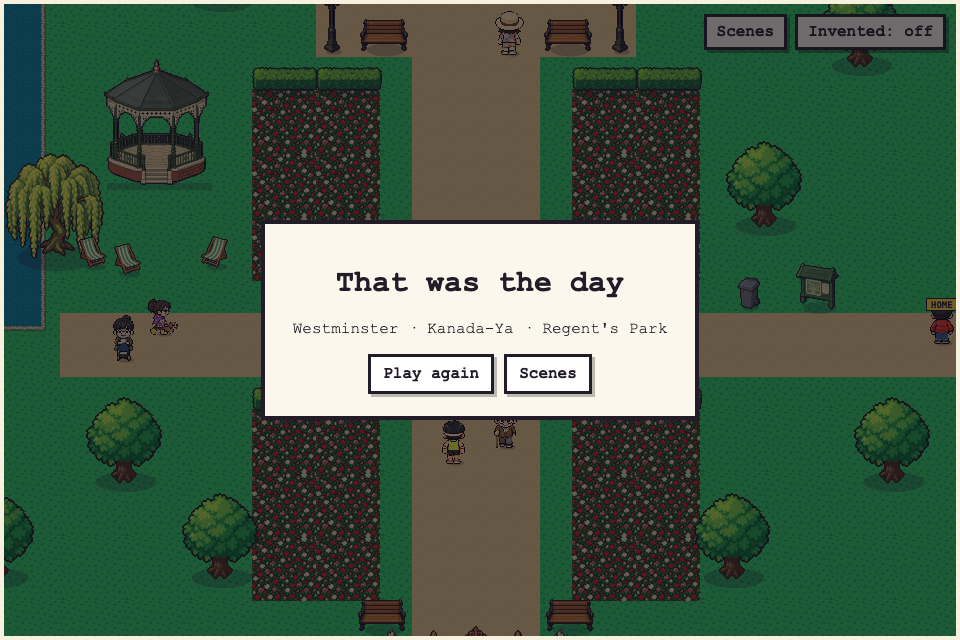
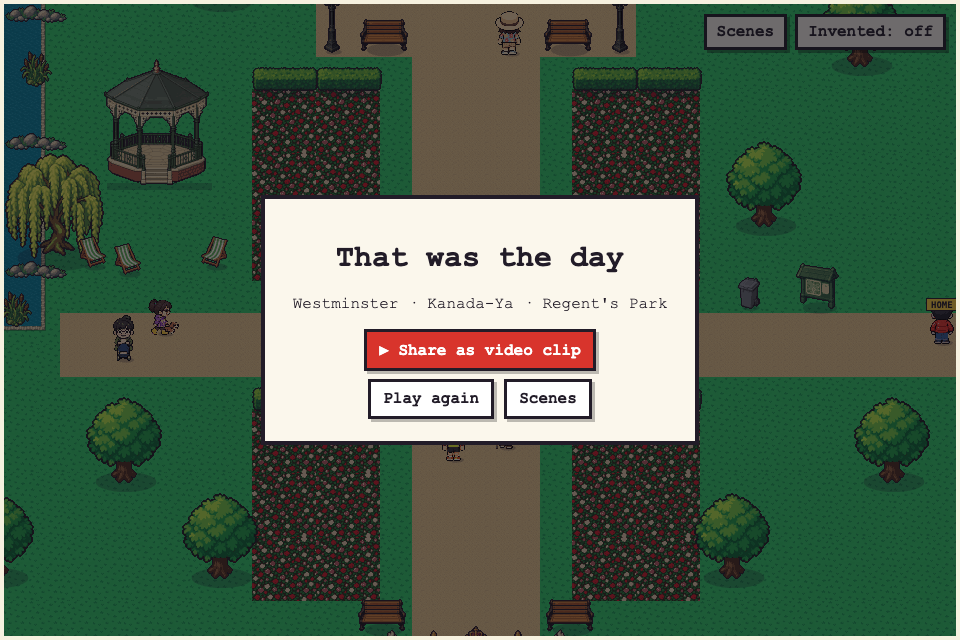
Demo: terrace set back behind the street, lake bank reeds, mock video-clip share
- the terrace backdrop stands two tiles back on its own pavement, hazier, so
  the real buildings read clearly in front of it
- reeds and stones soften the Regent's Park lake edges
- 'Share as video clip' on the end card and the day page: a short render bar,
  then a looping preview with Copy link / Save / Post toasts (calls nothing)

diff --git a/components/day/DemoDayViewer.tsx b/components/day/DemoDayViewer.tsx
@@ -1,9 +1,54 @@
 "use client";
 
 import Link from "next/link";
-import { useRef, useState } from "react";
+import { useEffect, useRef, useState } from "react";
 import { DEMO_DAY, DEMO_SPRITE_URL } from "@/lib/demo";
 import styles from "./day.module.css";
+
+const box = { background: "#fbf7ec", color: "#221c28", border: "4px solid #221c28", boxShadow: "inset 0 0 0 4px #e3d9bd, 6px 6px 0 rgba(0,0,0,.45)", padding: "18px 22px", width: "min(420px, calc(100vw - 32px))", textAlign: "center" as const, font: "700 13px monospace" };
+const btn = { background: "#fff", color: "#221c28", border: "3px solid #221c28", padding: "6px 12px", font: "700 12px monospace", cursor: "pointer", boxShadow: "3px 3px 0 rgba(0,0,0,.25)" };
+
+/** Demo-only "share as video clip": a short render bar, then a looping preview of the day's places. Calls nothing. */
+function ClipShare() {
+  const [state, setState] = useState<"idle" | "rendering" | "ready">("idle");
+  const [progress, setProgress] = useState(0);
+  const [frame, setFrame] = useState(0);
+  const [toast, setToast] = useState("");
+  useEffect(() => {
+    if (state === "rendering") {
+      const t0 = performance.now();
+      const timer = setInterval(() => {
+        const p = Math.min(1, (performance.now() - t0) / 2000);
+        setProgress(p);
+        if (p >= 1) { clearInterval(timer); setState("ready"); }
+      }, 50);
+      return () => clearInterval(timer);
+    }
+    if (state === "ready") {
+      const timer = setInterval(() => setFrame((f) => (f + 1) % DEMO_DAY.scenes.length), 900);
+      return () => clearInterval(timer);
+    }
+  }, [state]);
+  useEffect(() => { if (!toast) return; const t = setTimeout(() => setToast(""), 1400); return () => clearTimeout(t); }, [toast]);
+  const scene = DEMO_DAY.scenes[frame];
+  return <>
+    <button type="button" className={styles.share} onClick={() => { setProgress(0); setFrame(0); setState("rendering"); }}>SHARE AS VIDEO CLIP ▶</button>
+    {state !== "idle" && <div role="dialog" aria-label="Share as video clip" style={{ position: "fixed", inset: 0, zIndex: 20, display: "grid", placeItems: "center", background: "rgba(16,14,22,.7)" }}>
+      <div style={box}>
+        {state === "rendering" ? <><p>RENDERING YOUR DAY…</p><div style={{ height: 12, border: "3px solid #221c28", background: "#fff" }}><span style={{ display: "block", height: "100%", width: `${progress * 100}%`, background: "#d8342c" }} /></div></> : <>
+          <div style={{ aspectRatio: "3 / 2", border: "3px solid #221c28", background: "#a9d4f5", display: "grid", placeItems: "center", position: "relative" }}>
+            <img src={scene.thumb} alt={scene.title} style={{ maxHeight: "80%", maxWidth: "80%", imageRendering: "pixelated" }} />
+            <span style={{ position: "absolute", left: 8, bottom: 6, background: "#221c28", color: "#ffd23f", padding: "2px 6px", fontSize: 11 }}>{scene.time} · {scene.title.toUpperCase()}</span>
+          </div>
+          <p>{DEMO_DAY.name.toLowerCase()}-day.mp4 · 0:30</p>
+          <div style={{ display: "flex", gap: 10, justifyContent: "center" }}>{([["Copy link", "Copied!"], ["Save", "Saved!"], ["Post", "Shared!"]] as const).map(([label, msg]) => <button key={label} type="button" style={btn} onClick={() => setToast(msg)}>{label}</button>)}</div>
+          <button type="button" onClick={() => setState("idle")} style={{ ...btn, border: 0, boxShadow: "none", background: "none", textDecoration: "underline", marginTop: 10 }}>Close</button>
+        </>}
+      </div>
+      {toast && <p role="status" style={{ position: "fixed", bottom: 24, left: "50%", transform: "translateX(-50%)", background: "#221c28", color: "#ffd23f", border: "3px solid #ffd23f", padding: "8px 16px", font: "700 13px monospace" }}>{toast}</p>}
+    </div>}
+  </>;
+}
 
 /** The hardcoded demo day: prebuilt london-25d scenes played in an embedded canvas game. */
 export function DemoDayViewer() {
@@ -24,7 +69,10 @@ export function DemoDayViewer() {
   return <main className={styles.viewer}>
     <header className={styles.header}>
       <Link href="/" className={styles.brand}>DAYQUEST<span>A day worth visiting</span></Link>
-      <button type="button" onClick={share} className={styles.share}>{shareState === "copied" ? "LINK COPIED ✓" : "SHARE THIS DAY ↗"}</button>
+      <div style={{ display: "flex", gap: 10, flexWrap: "wrap" }}>
+        <ClipShare />
+        <button type="button" onClick={share} className={styles.share}>{shareState === "copied" ? "LINK COPIED ✓" : "SHARE THIS DAY ↗"}</button>
+      </div>
     </header>
     <p className={styles.shareStatus} aria-live="polite">{shareState === "copied" ? "Day link copied to clipboard." : ""}</p>
     {shareState === "fallback" && <label className={styles.copyLabel}>Copy this day link<input readOnly value={shareUrl} onFocus={(event) => event.target.select()} aria-label="Day share link" /></label>}

diff --git a/public/london-25d/engine/engine.js b/public/london-25d/engine/engine.js
@@ -167,10 +167,11 @@
       // a hazy row of city rooftops standing on the line y, across the whole map
       // depth: a hazy far skyline (only roofs and spires show) behind a continuous terrace that meets the ground at y
       skyline(y, o = {}) {
-        const far = img.skyline_far || img.skyline, row = img.terrace_strip;
-        const roof = row ? y - row.height + 24 : y;
+        // setback: the terrace stands on its own pavement this far behind the frontage line, so it reads as the next street
+        const far = img.skyline_far || img.skyline, row = img.terrace_strip, by = y - (o.setback ?? 0);
+        const roof = row ? by - row.height + 24 : by;
         w.backdrops.push({ im: far, x: 0, y: roof + 40 - far.height, p: o.parallax ?? 0.3, invented: !!o.invented, repeatX: true });
-        if (row) w.backdrops.push({ im: row, x: 0, y: y - row.height, p: 0, invented: !!o.invented, repeatX: true, ground: true });
+        if (row) w.backdrops.push({ im: row, x: 0, y: by - row.height, p: 0, invented: !!o.invented, repeatX: true, ground: true });
       },
     };
     def.build(api);
@@ -300,6 +301,8 @@
     bannerEl.hidden = false;
     bannerTimer = 90;
     exitCooldown = 30;
+    // remember what this scene looks like for the clip preview (once the banner has gone)
+    if (def.order != null) setTimeout(() => { if (world && world.def === def && mode === "play") snapshots[def.order - 1] = canvas.toDataURL(); }, 1700);
     const url = new URL(location.href);
     url.searchParams.set("scene", def.id);
     history.replaceState(null, "", url);
@@ -372,6 +375,32 @@
   invBtn.addEventListener("click", (ev) => { ev.stopPropagation(); toggleInvented(); invBtn.blur(); });
   document.getElementById("btn-menu").addEventListener("click", (ev) => { ev.stopPropagation(); showPicker(); ev.target.blur(); });
   document.getElementById("end-again").addEventListener("click", () => enter(chain()[0]));
+
+  // ---------- mock "share as video clip": a short render bar, then a looping preview of the day ----------
+  const snapshots = []; // one canvas snapshot per scene, taken shortly after entering it
+  const clipEl = document.getElementById("clip"), toastEl = document.getElementById("toast");
+  let clipTimer = 0;
+  function toast(text) { toastEl.textContent = text; toastEl.hidden = false; clearTimeout(toast.t); toast.t = setTimeout(() => (toastEl.hidden = true), 1400); }
+  document.getElementById("end-clip").addEventListener("click", () => {
+    const render = document.getElementById("clip-render"), ready = document.getElementById("clip-ready"), bar = document.getElementById("clip-bar");
+    clipEl.hidden = false; render.hidden = false; ready.hidden = true; bar.style.width = "0";
+    const t0 = performance.now();
+    const tick = () => {
+      const p = Math.min(1, (performance.now() - t0) / 2000);
+      bar.style.width = `${p * 100}%`;
+      if (p < 1) return requestAnimationFrame(tick);
+      render.hidden = true; ready.hidden = false;
+      const shots = snapshots.filter(Boolean), frames = shots.length ? shots : [canvas.toDataURL()];
+      let i = 0;
+      const img = document.getElementById("clip-frame");
+      img.src = frames[0];
+      clearInterval(clipTimer);
+      clipTimer = setInterval(() => { i = (i + 1) % frames.length; img.src = frames[i]; }, 900);
+    };
+    requestAnimationFrame(tick);
+  });
+  for (const b of clipEl.querySelectorAll("[data-toast]")) b.addEventListener("click", () => toast(b.dataset.toast));
+  document.getElementById("clip-close").addEventListener("click", () => { clipEl.hidden = true; clearInterval(clipTimer); });
   document.getElementById("end-menu").addEventListener("click", showPicker);
 
   // ---------- transit between scenes ----------

diff --git a/public/london-25d/scenes/regents-park/scene.js b/public/london-25d/scenes/regents-park/scene.js
@@ -43,10 +43,10 @@
     sky: "#2a9d5c",
     spawn: { x: (WALK_C0 + 2) * T, y: FENCE_R * T - 80, dir: "up" }, // just inside the gates
     own: ["jubilee_gates", "triton", "bandstand", "swan", "rowing_boat", "willow", "deckchair", "noticeboard",
-      "tile_lake_edge", "tile_lake_edge_v", "tile_lake_corner", "tile_water", "tile_gravel", "tile_roses"],
+      "tile_lake_edge", "tile_lake_edge_v", "tile_lake_corner", "tile_water", "tile_gravel", "tile_roses", "reeds", "bank_stones"],
     assets: ["tile_grass", "tile_paving", "tile_gravel", "tile_roses", "tile_water", "tile_lake_edge", "tile_lake_edge_v", "tile_lake_corner",
       "jubilee_gates", "triton", "bandstand", "swan", "rowing_boat", "willow", "deckchair", "noticeboard",
-      "tree", "hedge", "bench", "lamp", "bin_grey", "npc_tourist", "npc_commuter", "npc_jogger", "npc_parent", "npc_elder", "npc_dogwalker", "npc_student", "npc_busker"],
+      "tree", "hedge", "bench", "lamp", "bin_grey", "npc_tourist", "npc_commuter", "npc_jogger", "npc_parent", "npc_elder", "npc_dogwalker", "npc_student", "npc_busker", "reeds", "bank_stones"],
 
     ground(c, r) {
       if (c < LAKE_C && r < LAKE_R) return { tile: "tile_water", solid: true };
@@ -157,6 +157,16 @@
       w.talk(nb.x + nb.w / 2, nb.y, TEXT.stats);
       w.add("bin_grey", 33 * T + 6, PATH_R0 * T - 4, { invented: true });
       w.exit(W - 28, PATH_R0 * T, 28, 2 * T, { label: "HOME" });
+
+      // soften the lake's straight banks with reeds and stones along both edges (invented detail)
+      for (let r = 1; r < LAKE_R; r += 2) {
+        const name = r % 4 === 1 ? "reeds" : "bank_stones";
+        w.add(name, LAKE_C * T + 8 - img[name].width / 2, (r + 1) * T - 2, { solid: false, shadow: "none", invented: true });
+      }
+      for (let c = 0; c < LAKE_C; c += 2) {
+        const name = c % 4 === 0 ? "bank_stones" : "reeds";
+        w.add(name, c * T + 4, LAKE_R * T + 14, { solid: false, shadow: "none", invented: true });
+      }
 
       // park visitors (generic people, invented): a jogger lapping the walk, dog walkers and a slow stroll
       const py = PATH_R0 * T + 22;

diff --git a/public/london-25d/engine/style.css b/public/london-25d/engine/style.css
@@ -121,3 +121,15 @@ button { font: inherit; }
 }
 #dialogue { display: flex; gap: 14px; align-items: flex-start; }
 #dialogue-icon { width: 64px; height: 64px; image-rendering: pixelated; flex: none; }
+
+#clip { position: fixed; inset: 0; z-index: 12; display: grid; place-items: center; background: rgba(16,14,22,.7); }
+#clip .card { background: var(--paper); border: 4px solid var(--ink); box-shadow: inset 0 0 0 4px #e3d9bd, 6px 6px 0 rgba(0,0,0,.45); padding: 18px 22px; text-align: center; color: var(--ink); width: min(420px, calc(100vw - 32px)); }
+#clip .bar { height: 12px; border: 3px solid var(--ink); background: #fff; margin-top: 8px; }
+#clip .bar span { display: block; height: 100%; width: 0; background: var(--red); }
+#clip-frame { width: 100%; aspect-ratio: 3 / 2; object-fit: cover; image-rendering: pixelated; border: 3px solid var(--ink); background: #14121a; }
+#clip .clip-name { font-weight: bold; margin: 8px 0; }
+#clip .row, #end .row { display: flex; gap: 10px; justify-content: center; margin-top: 8px; }
+#clip button { background: #fff; color: var(--ink); border: 3px solid var(--ink); padding: 6px 12px; font-weight: bold; cursor: pointer; box-shadow: 3px 3px 0 rgba(0,0,0,.25); }
+#clip button.link { border: 0; box-shadow: none; text-decoration: underline; margin-top: 10px; background: none; }
+#end-clip { background: var(--red) !important; color: #fff !important; }
+#toast { position: fixed; left: 50%; bottom: 24px; transform: translateX(-50%); z-index: 13; background: var(--ink); color: #ffd23f; border: 3px solid #ffd23f; padding: 8px 16px; font-weight: bold; }

diff --git a/public/london-25d/scenes/westminster/scene.js b/public/london-25d/scenes/westminster/scene.js
@@ -54,7 +54,7 @@
       caption: "Parliament Square → Tottenham Court Road · via Whitehall & Trafalgar Square", color: "#d8342c", frames: 260 }],
 
     ground(c, r) {
-      if (r < ROW_TOP) return null;
+      if (r < ROW_TOP - 2) return null;   // back pavement behind the Square
       const bridge = { tile: "tile_bridge", ox: BRIDGE_C };
       if (r >= ROW_FAR_EDGE && r <= ROW_NEAR_EDGE) {
         if (onBridge(c)) return bridge;
@@ -96,7 +96,7 @@
       // ---- skyline: the Shard is really behind the viewer here (it's east, in Southwark); the spec puts it on the skyline
       w.backdrop("shard", 850, ROW_TOP * T - img.shard.height + 6, { parallax: 0.3, invented: true });
       // city rooftops beyond the far bank, so the landmarks stand in front of a street, not bare sky (generic, invented)
-      w.skyline(ROW_TOP * T + 4, { parallax: 0.12, invented: true });
+      w.skyline(ROW_TOP * T + 4, { parallax: 0.12, invented: true, setback: 2 * T });
 
       // ---- river walls: the water half of each edge tile is not walkable
       w.block(0, farEdgeY + 19, BX0, T - 19);

diff --git a/public/london-25d/index.html b/public/london-25d/index.html
@@ -36,9 +36,23 @@
   <div class="card">
     <h1>That was the day</h1>
     <p class="sub">Westminster &middot; Kanada-Ya &middot; Regent's Park</p>
+    <div class="row"><button id="end-clip" type="button">&#9654; Share as video clip</button></div>
     <div class="row"><button id="end-again" type="button">Play again</button><button id="end-menu" type="button">Scenes</button></div>
   </div>
 </div>
+
+<div id="clip" hidden>
+  <div class="card">
+    <div id="clip-render"><p>Rendering your day&hellip;</p><div class="bar"><span id="clip-bar"></span></div></div>
+    <div id="clip-ready" hidden>
+      <img id="clip-frame" alt="Clip preview">
+      <p class="clip-name">lucas-day.mp4 &middot; 0:30</p>
+      <div class="row"><button type="button" data-toast="Copied!">Copy link</button><button type="button" data-toast="Saved!">Save</button><button type="button" data-toast="Shared!">Post</button></div>
+      <button type="button" id="clip-close" class="link">Close</button>
+    </div>
+  </div>
+</div>
+<div id="toast" hidden></div>
 
 <div id="touch" hidden>
   <div id="dpad">

diff --git a/public/london-25d/scenes/kanada-ya/scene.js b/public/london-25d/scenes/kanada-ya/scene.js
@@ -48,7 +48,7 @@
     ],
 
     ground(c, r) {
-      if (r < ROW_BASE) return null;
+      if (r < ROW_BASE - 2) return null;   // two rows of back pavement behind the frontages
       if (r === ROW_KERB_TOP) return "tile_kerb";
       if (r > ROW_KERB_TOP && r < ROW_KERB_BOTTOM) return "tile_asphalt";
       if (r === ROW_KERB_BOTTOM) return { tile: "tile_kerb", flipY: true };
@@ -57,7 +57,7 @@
 
     build(w) {
       // rooftops of the streets behind the south-side frontages (generic, invented)
-      w.skyline(BASE + 4, { parallax: 0.12, invented: true });
+      w.skyline(BASE + 4, { parallax: 0.12, invented: true, setback: 2 * T });
       const { img, W } = w;
       const front = (name, x, o = {}) => w.add(name, x, BASE, { depth: 30, shadow: "base", foot: [0, img[name].width], ...o });
 

diff --git a/public/london-25d/scenes/regents-park/prompts.md b/public/london-25d/scenes/regents-park/prompts.md
@@ -14,7 +14,7 @@ Tile ending:
 
 > This is a single seamless repeating ground texture tile viewed straight down (orthographic, no perspective), filling the entire square image edge to edge, designed on a 16x16 grid of big pixels so it tiles seamlessly on all four sides. No border, no objects, no text. Square 1024x1024.
 
-## Calls (13)
+## Calls (15)
 
 ### tile_gravel (2026-11-01 14-46-23)
 
@@ -92,6 +92,18 @@ Original pixel-art game asset for a 2010s handheld (DS-era) style top-down RPG. 
 
 ```text
 Original pixel-art game asset for a 2010s handheld (DS-era) style top-down RPG. Steep top-down 3/4 view (camera high, looking down at about 60 degrees, so we see the front face and a sliver of the top). Clean crisp chunky square pixels, flat colour shading with 2-3 tones per material, absolutely no dithering, no noise, no gradients, no anti-aliasing blur. Dark 1px outlines around shapes. Bright cheerful palette (teal-green grass, sandy paving, warm red-brown bricks). Light comes from the top-left. Entirely original design, not copied from or imitating any existing game, character or logo. A park fountain, front view from slightly above: a low round pale stone basin full of blue water; in the middle a rock carrying a dark green-black weathered bronze statue group: a bearded sea god with a scaly fish tail, kneeling and blowing a long spiral conch shell pointed at the sky, a thin jet of white water rising from the conch; two smaller bronze sea nymphs in long flowing robes with fish tails sitting on the rock at his feet. Square 1024x1024. Show ONE isolated object, centred, whole object visible with margin around it, on a perfectly flat solid pure magenta (#FF00FF) background. No cast shadow on the ground, no ground plane, no scenery, no border, no extra text or labels.
+```
+
+### bank_stones (2026-11-01 15-44-46)
+
+```text
+Original pixel-art game asset for a 2010s handheld (DS-era) style top-down RPG. Steep top-down 3/4 view (camera high, looking down at about 60 degrees, so we see the front face and a sliver of the top). Clean crisp chunky square pixels, flat colour shading with 2-3 tones per material, absolutely no dithering, no noise, no gradients, no anti-aliasing blur. Dark 1px outlines around shapes. Bright cheerful palette (teal-green grass, sandy paving, warm red-brown bricks). Light comes from the top-left. Entirely original design, not copied from or imitating any existing game, character or logo. A short irregular row of rounded grey and sandy lakeside stones and pebbles with tufts of grass between them, seen from slightly above. Wide landscape 1536x1024. Show ONE isolated object, centred, whole object visible with margin around it, on a perfectly flat solid pure magenta (#FF00FF) background. No cast shadow on the ground, no ground plane, no scenery, no border, no extra text or labels.
+```
+
+### reeds (2026-11-01 15-44-47)
+
+```text
+Original pixel-art game asset for a 2010s handheld (DS-era) style top-down RPG. Steep top-down 3/4 view (camera high, looking down at about 60 degrees, so we see the front face and a sliver of the top). Clean crisp chunky square pixels, flat colour shading with 2-3 tones per material, absolutely no dithering, no noise, no gradients, no anti-aliasing blur. Dark 1px outlines around shapes. Bright cheerful palette (teal-green grass, sandy paving, warm red-brown bricks). Light comes from the top-left. Entirely original design, not copied from or imitating any existing game, character or logo. A clump of tall green lakeside reeds and bulrushes with brown seed heads, a few flat stones at the base. Square 1024x1024. Show ONE isolated object, centred, whole object visible with margin around it, on a perfectly flat solid pure magenta (#FF00FF) background. No cast shadow on the ground, no ground plane, no scenery, no border, no extra text or labels.
 ```
 
 ## Notes
